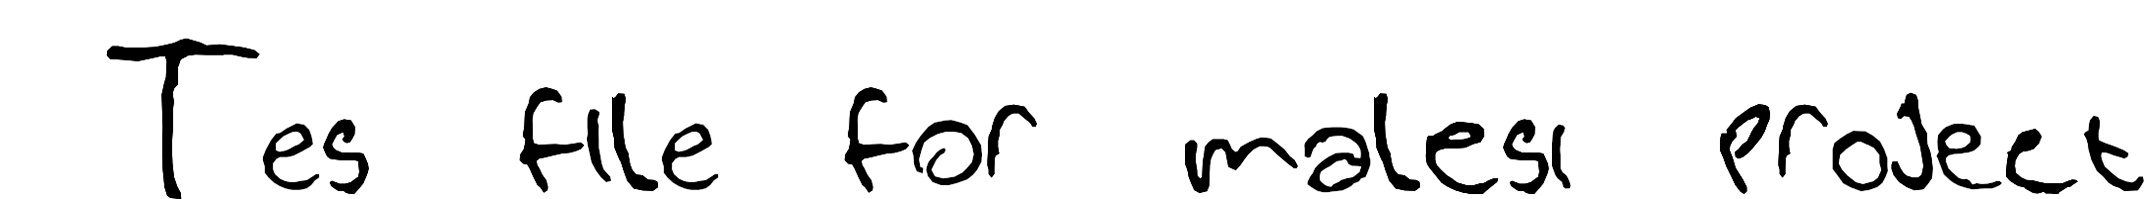
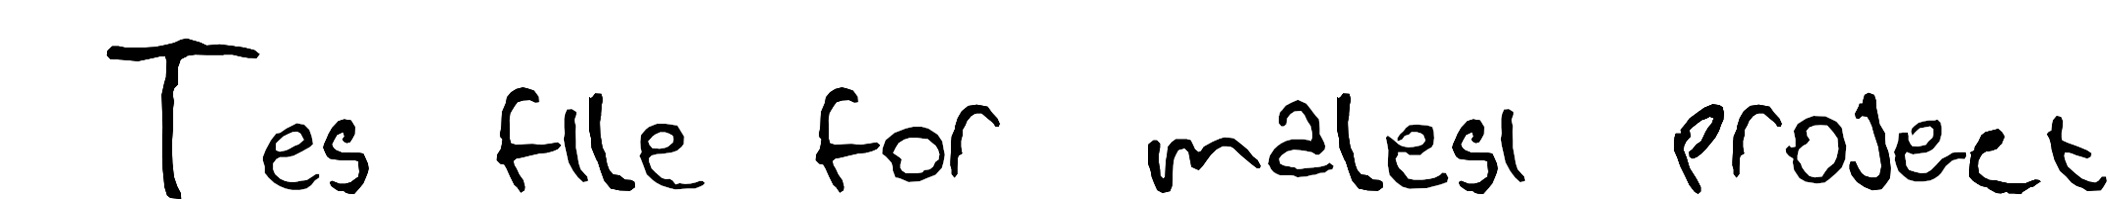
Add new dataset

diff --git a/malesi.py b/malesi.py
@@ -47,7 +47,7 @@ def main(filename):
         for x in range(len(text)):
             while True:
                 for cycle in range(0,5):
-                    for rand in range(0,3):
+                    for rand in range(0,5):
                         rand_num = str(ord(text[x])) + str(random.randint(0,5))
                 temp = img_alpha[rand_num]
                 if os.path.isfile(temp):
